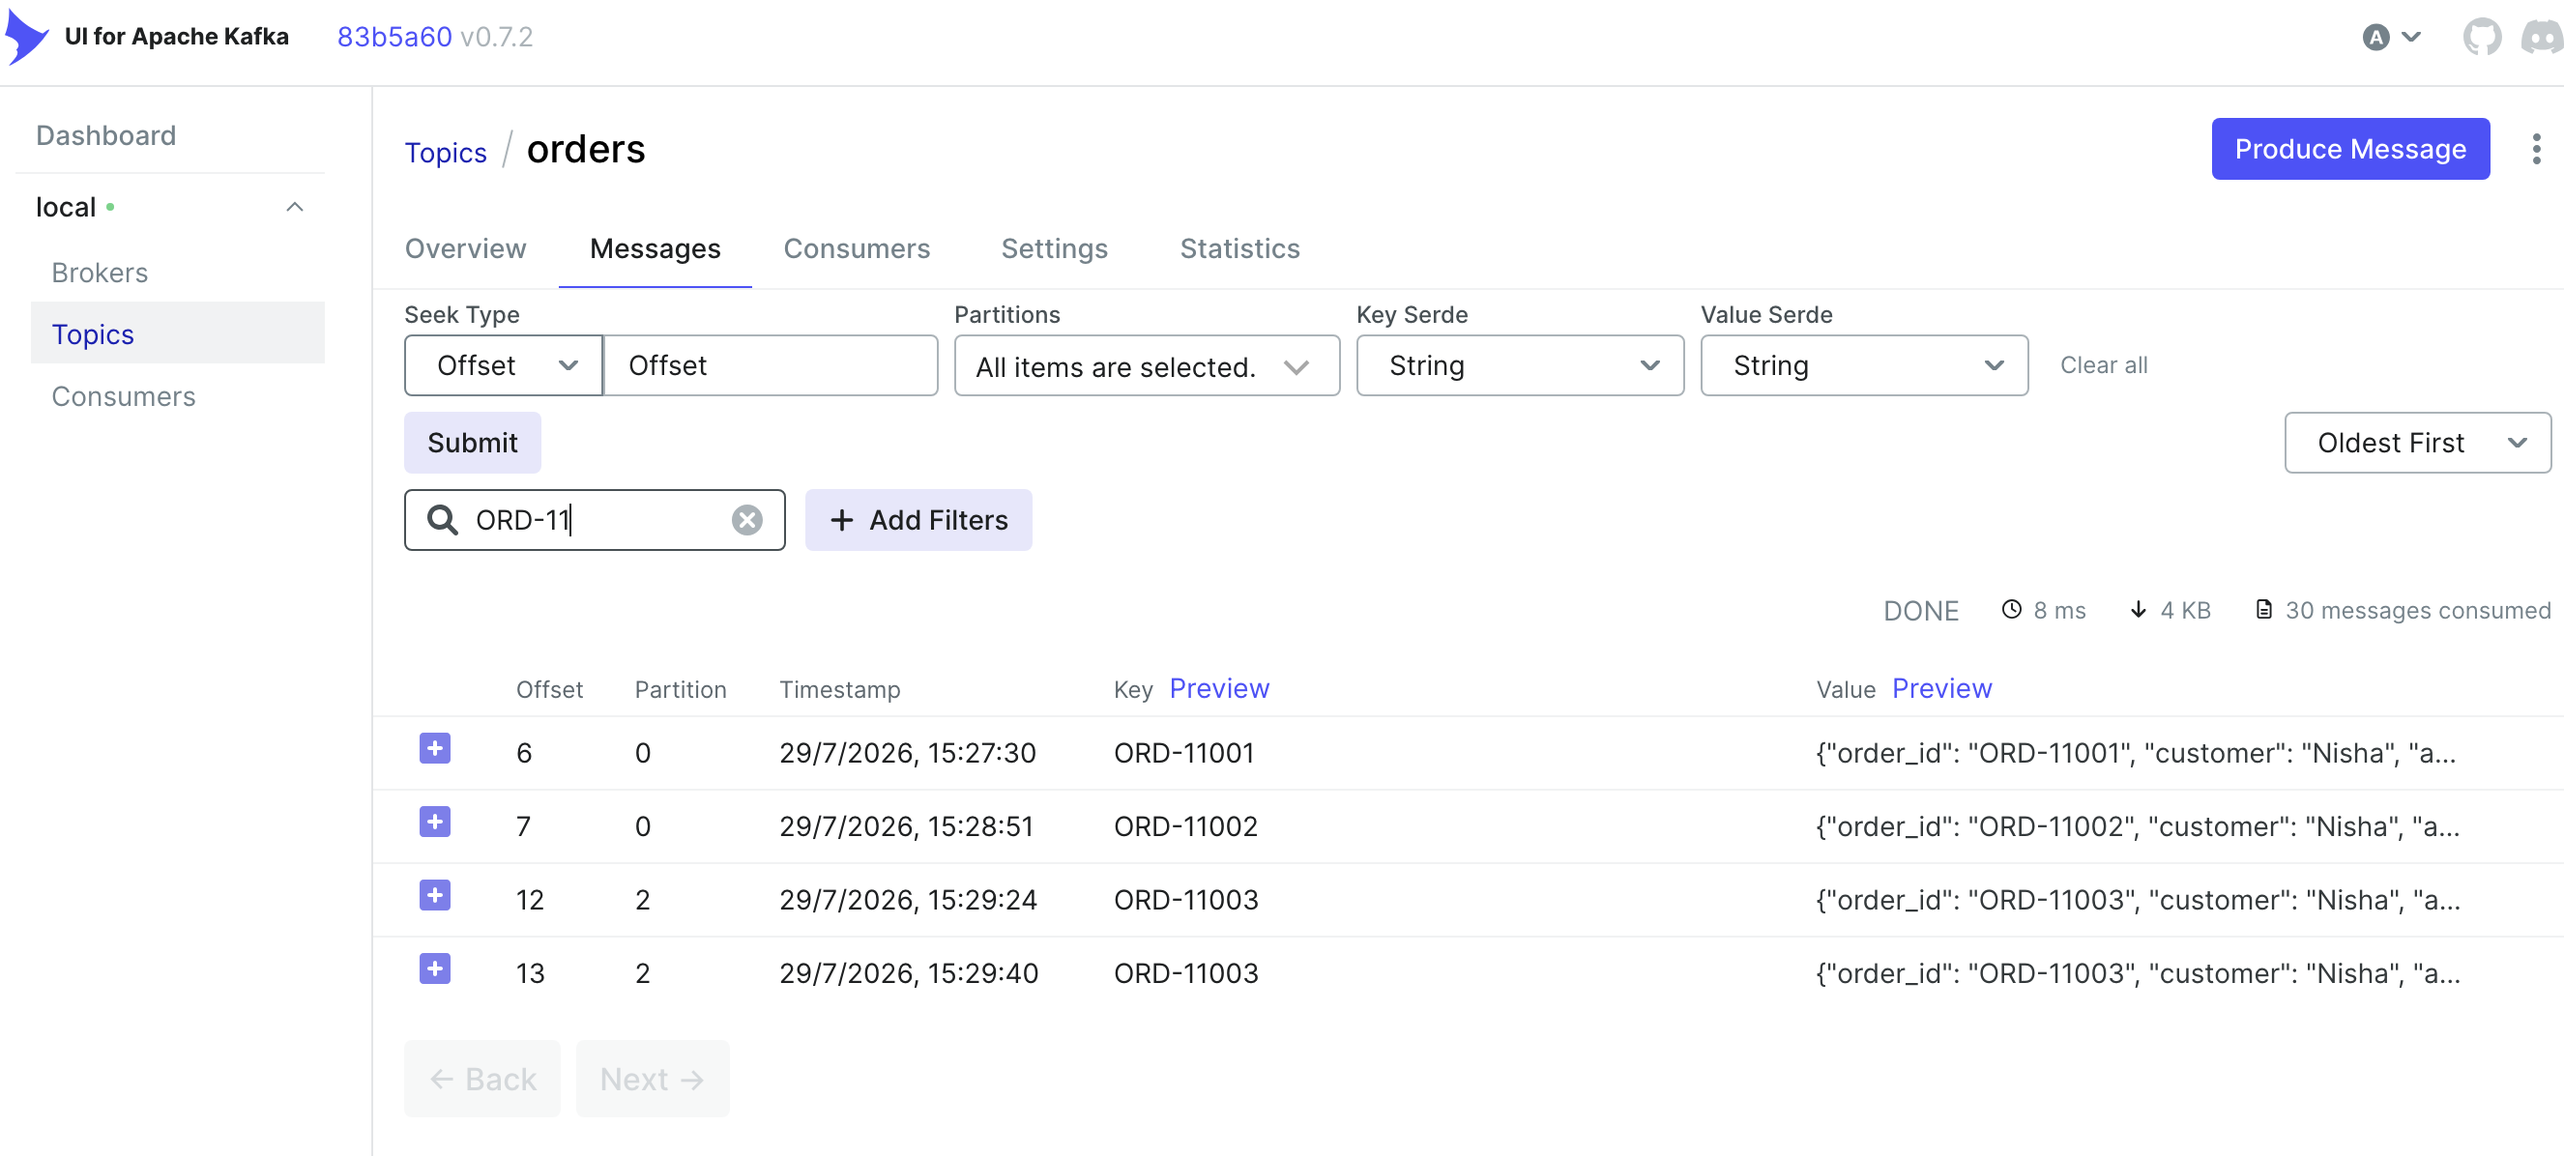
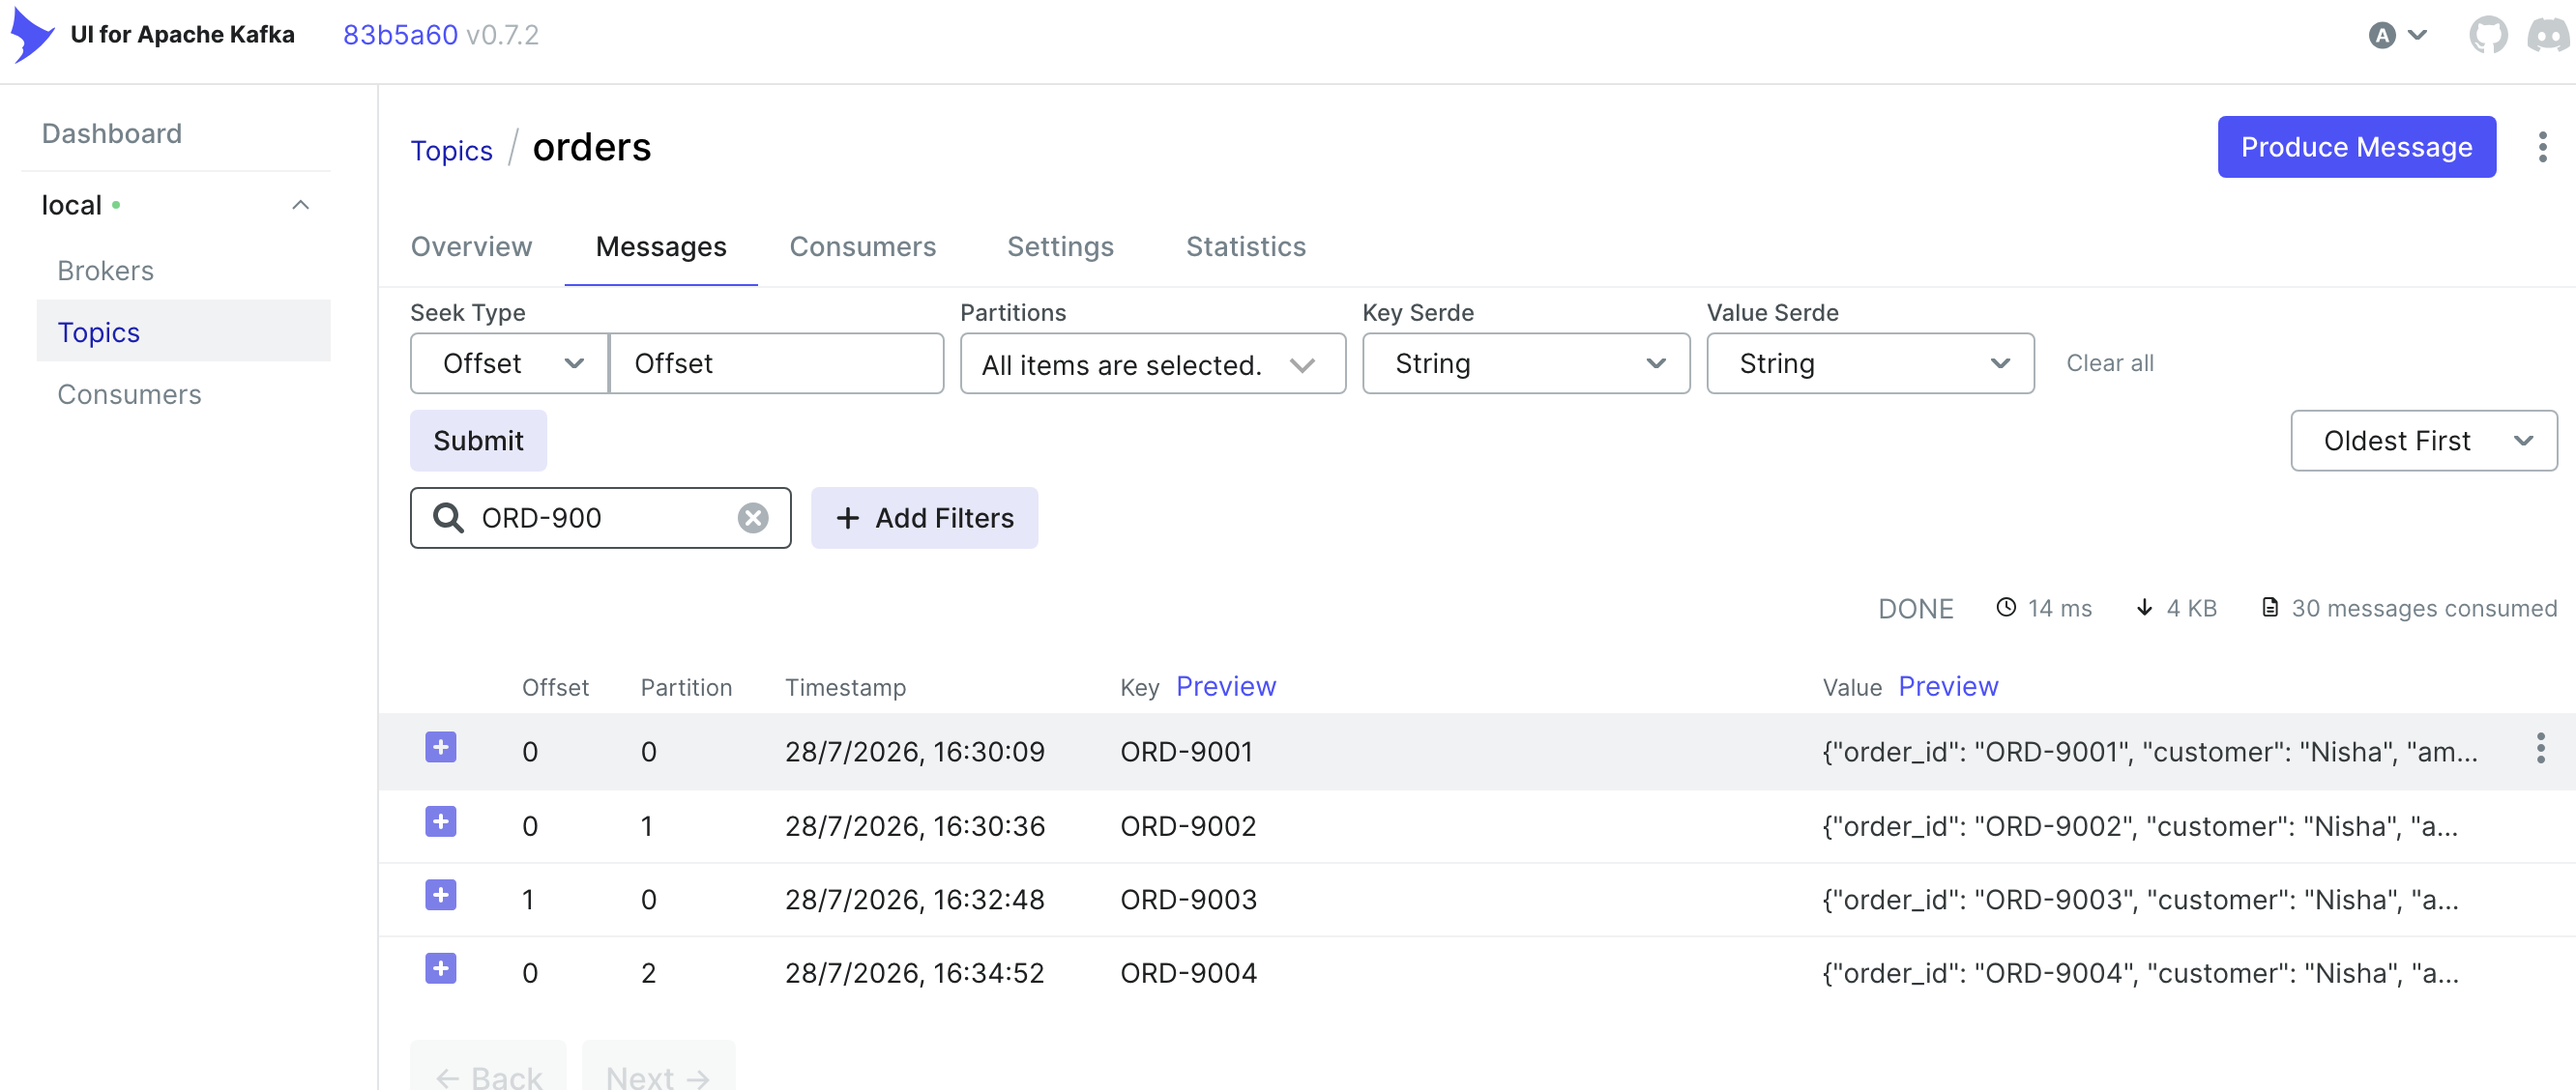
Readme Updated

diff --git a/README.md b/README.md
@@ -8,25 +8,7 @@ This project demonstrates how distributed services communicate asynchronously us
 
 ## Architecture
 
-Order API
-↓
-orders
-↓
-Payment Service
-├── Payment Success
-└── Payment Failure
-↓
-payment-retry
-↓
-Retry Consumer
-├── Success
-└── Max Retry Exceeded
-↓
-payment-dlq
-↓
-Replay Worker
-↓
-orders
+![Kafka Architecture](docs/architecture.jpg)
 
 ## Features
 
@@ -103,10 +85,6 @@ http://localhost:8080
 - Historical Event Replay
 - Partition Keys
 
-
-## Architecture
-![Kafka Architecture](docs/architecture.jpg)
-
 ## Kafka UI Screenshots
 
 ### Kafka | UI Overview
@@ -124,7 +102,7 @@ postman request POST 'http://127.0.0.1:8001/orders' \
   --header 'accept: application/json' \
   --header 'Content-Type: application/json' \
   --body '{
-    "order_id":"ORD-11003",
+    "order_id":"ORD-9003",
     "customer":"Nisha",
     "amount":1200,
     "simulate_failure":true,
@@ -141,7 +119,7 @@ postman request POST 'http://127.0.0.1:8001/orders' \
   --header 'accept: application/json' \
   --header 'Content-Type: application/json' \
   --body '{
-    "order_id":"ORD-11004",
+    "order_id":"ORD-9004",
     "customer":"MaNisha",
     "amount":5200,
     "simulate_failure":false,
